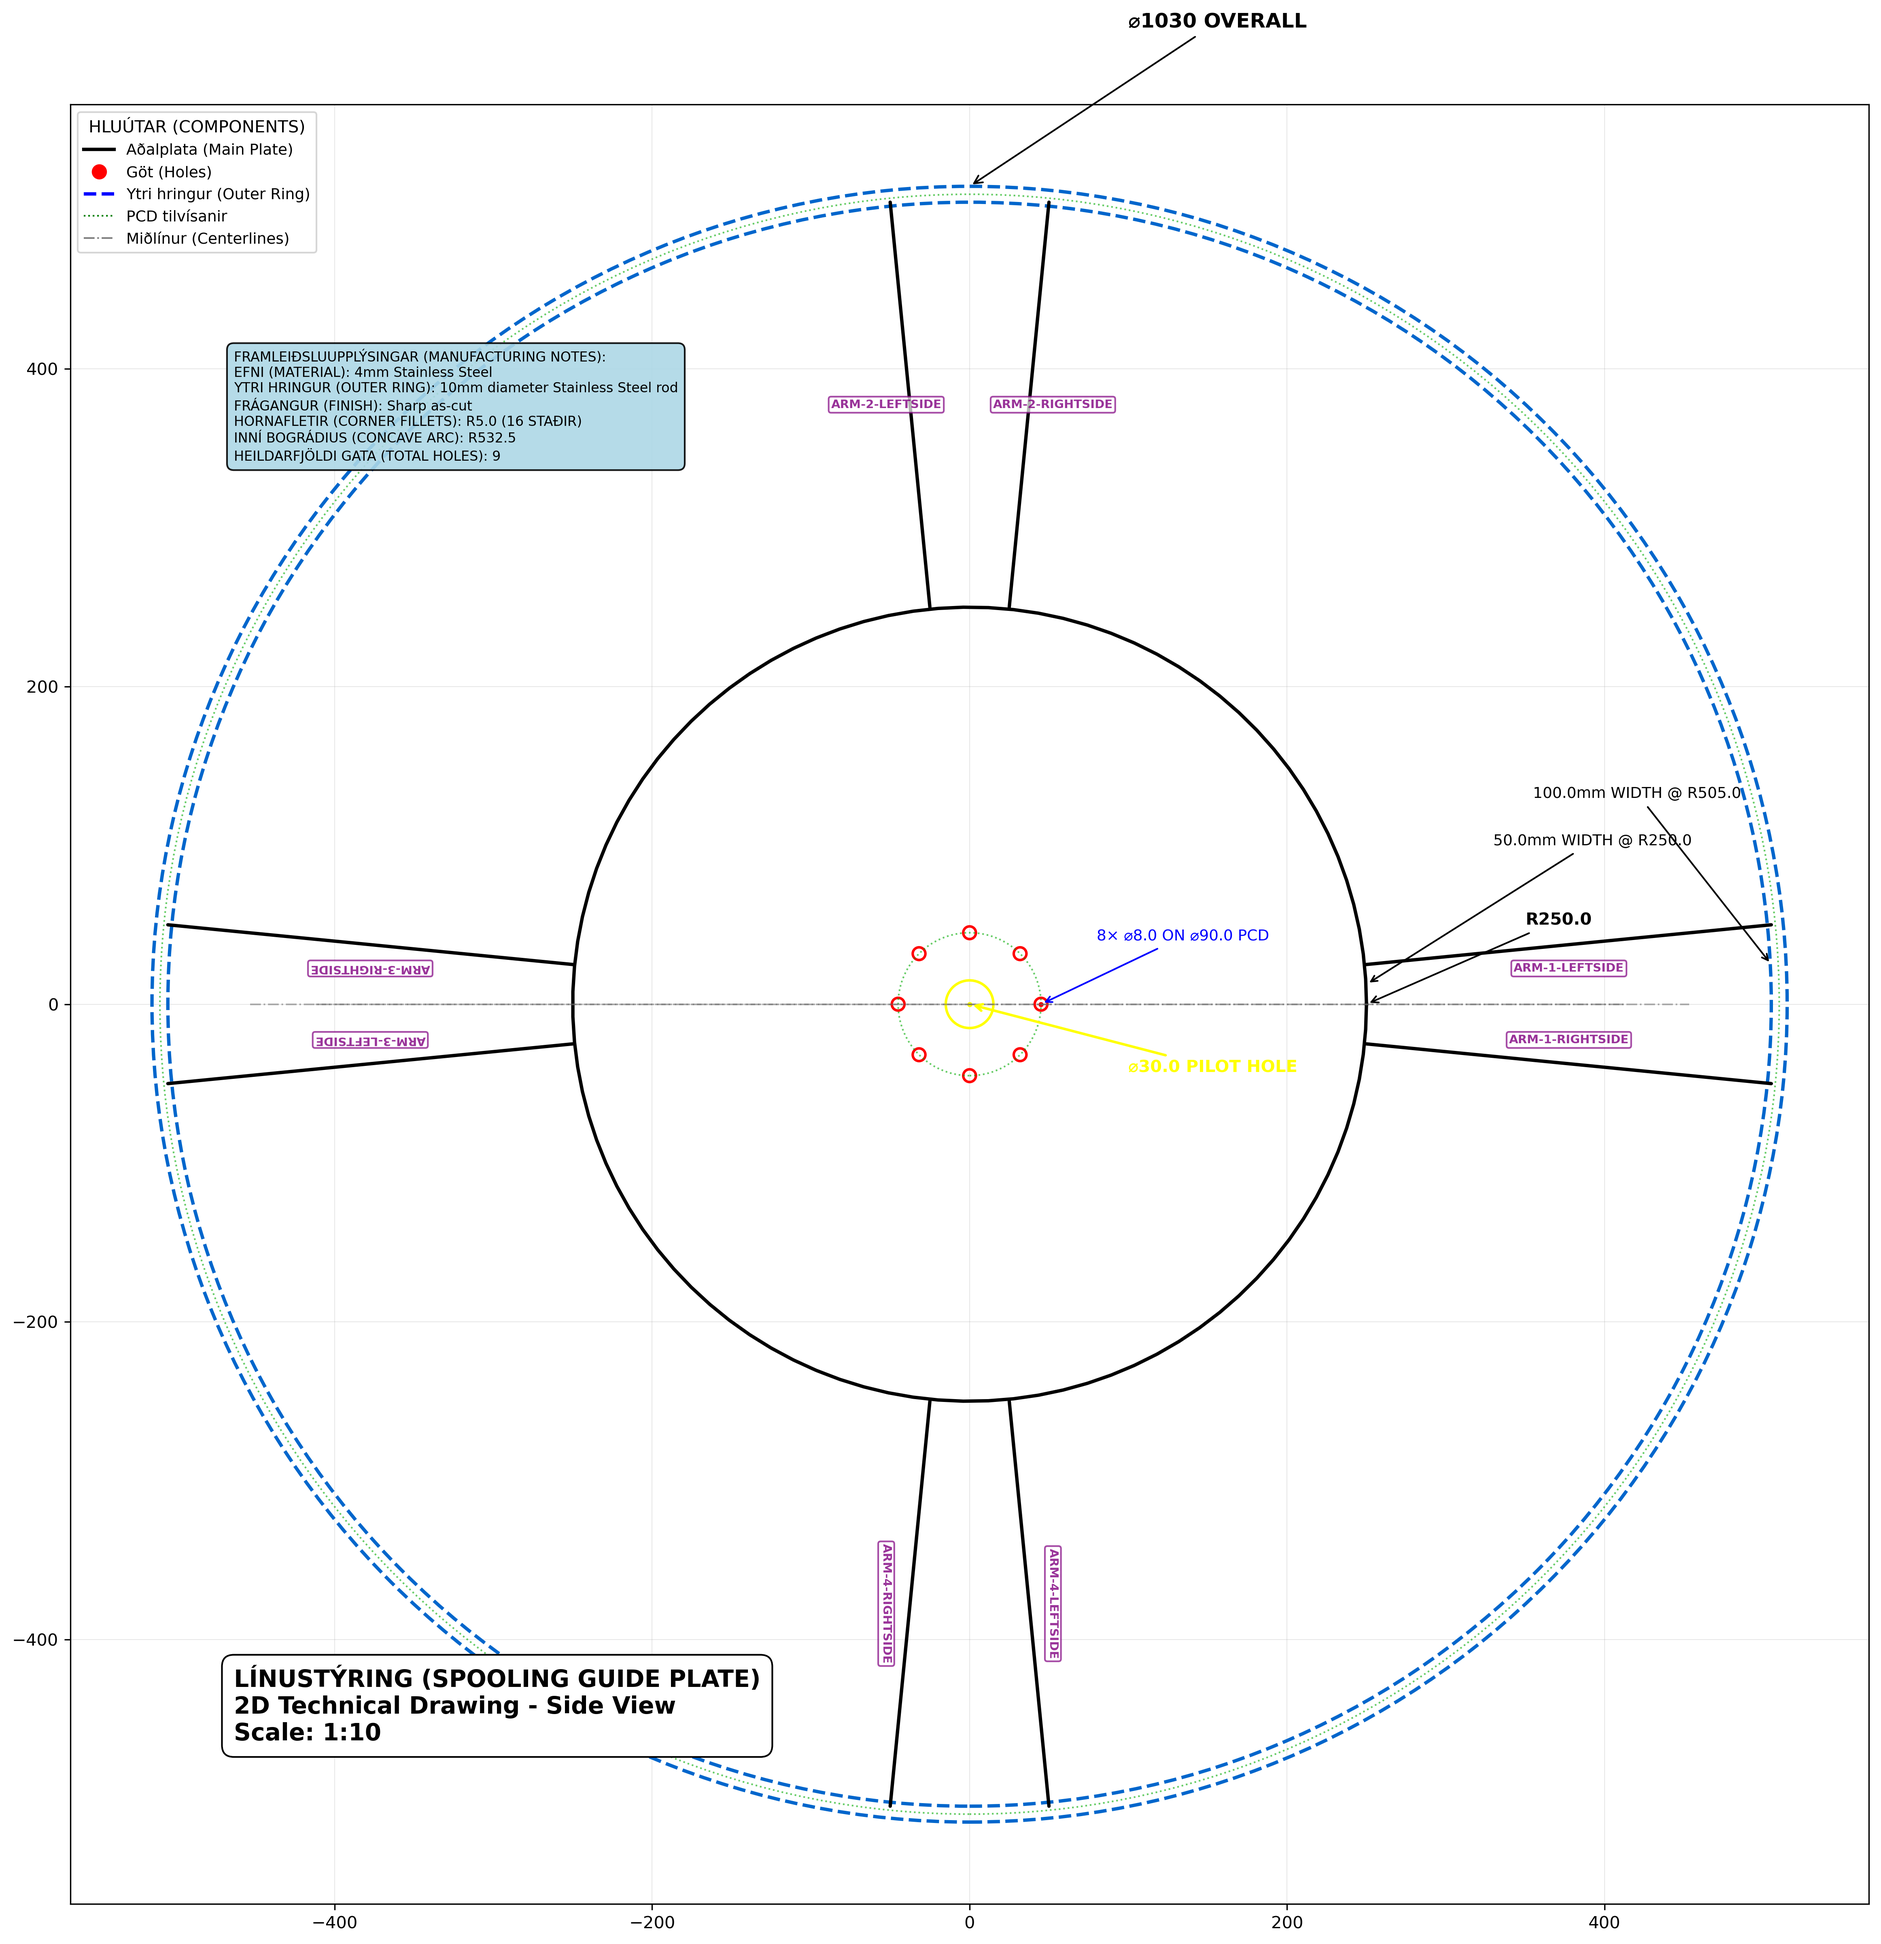
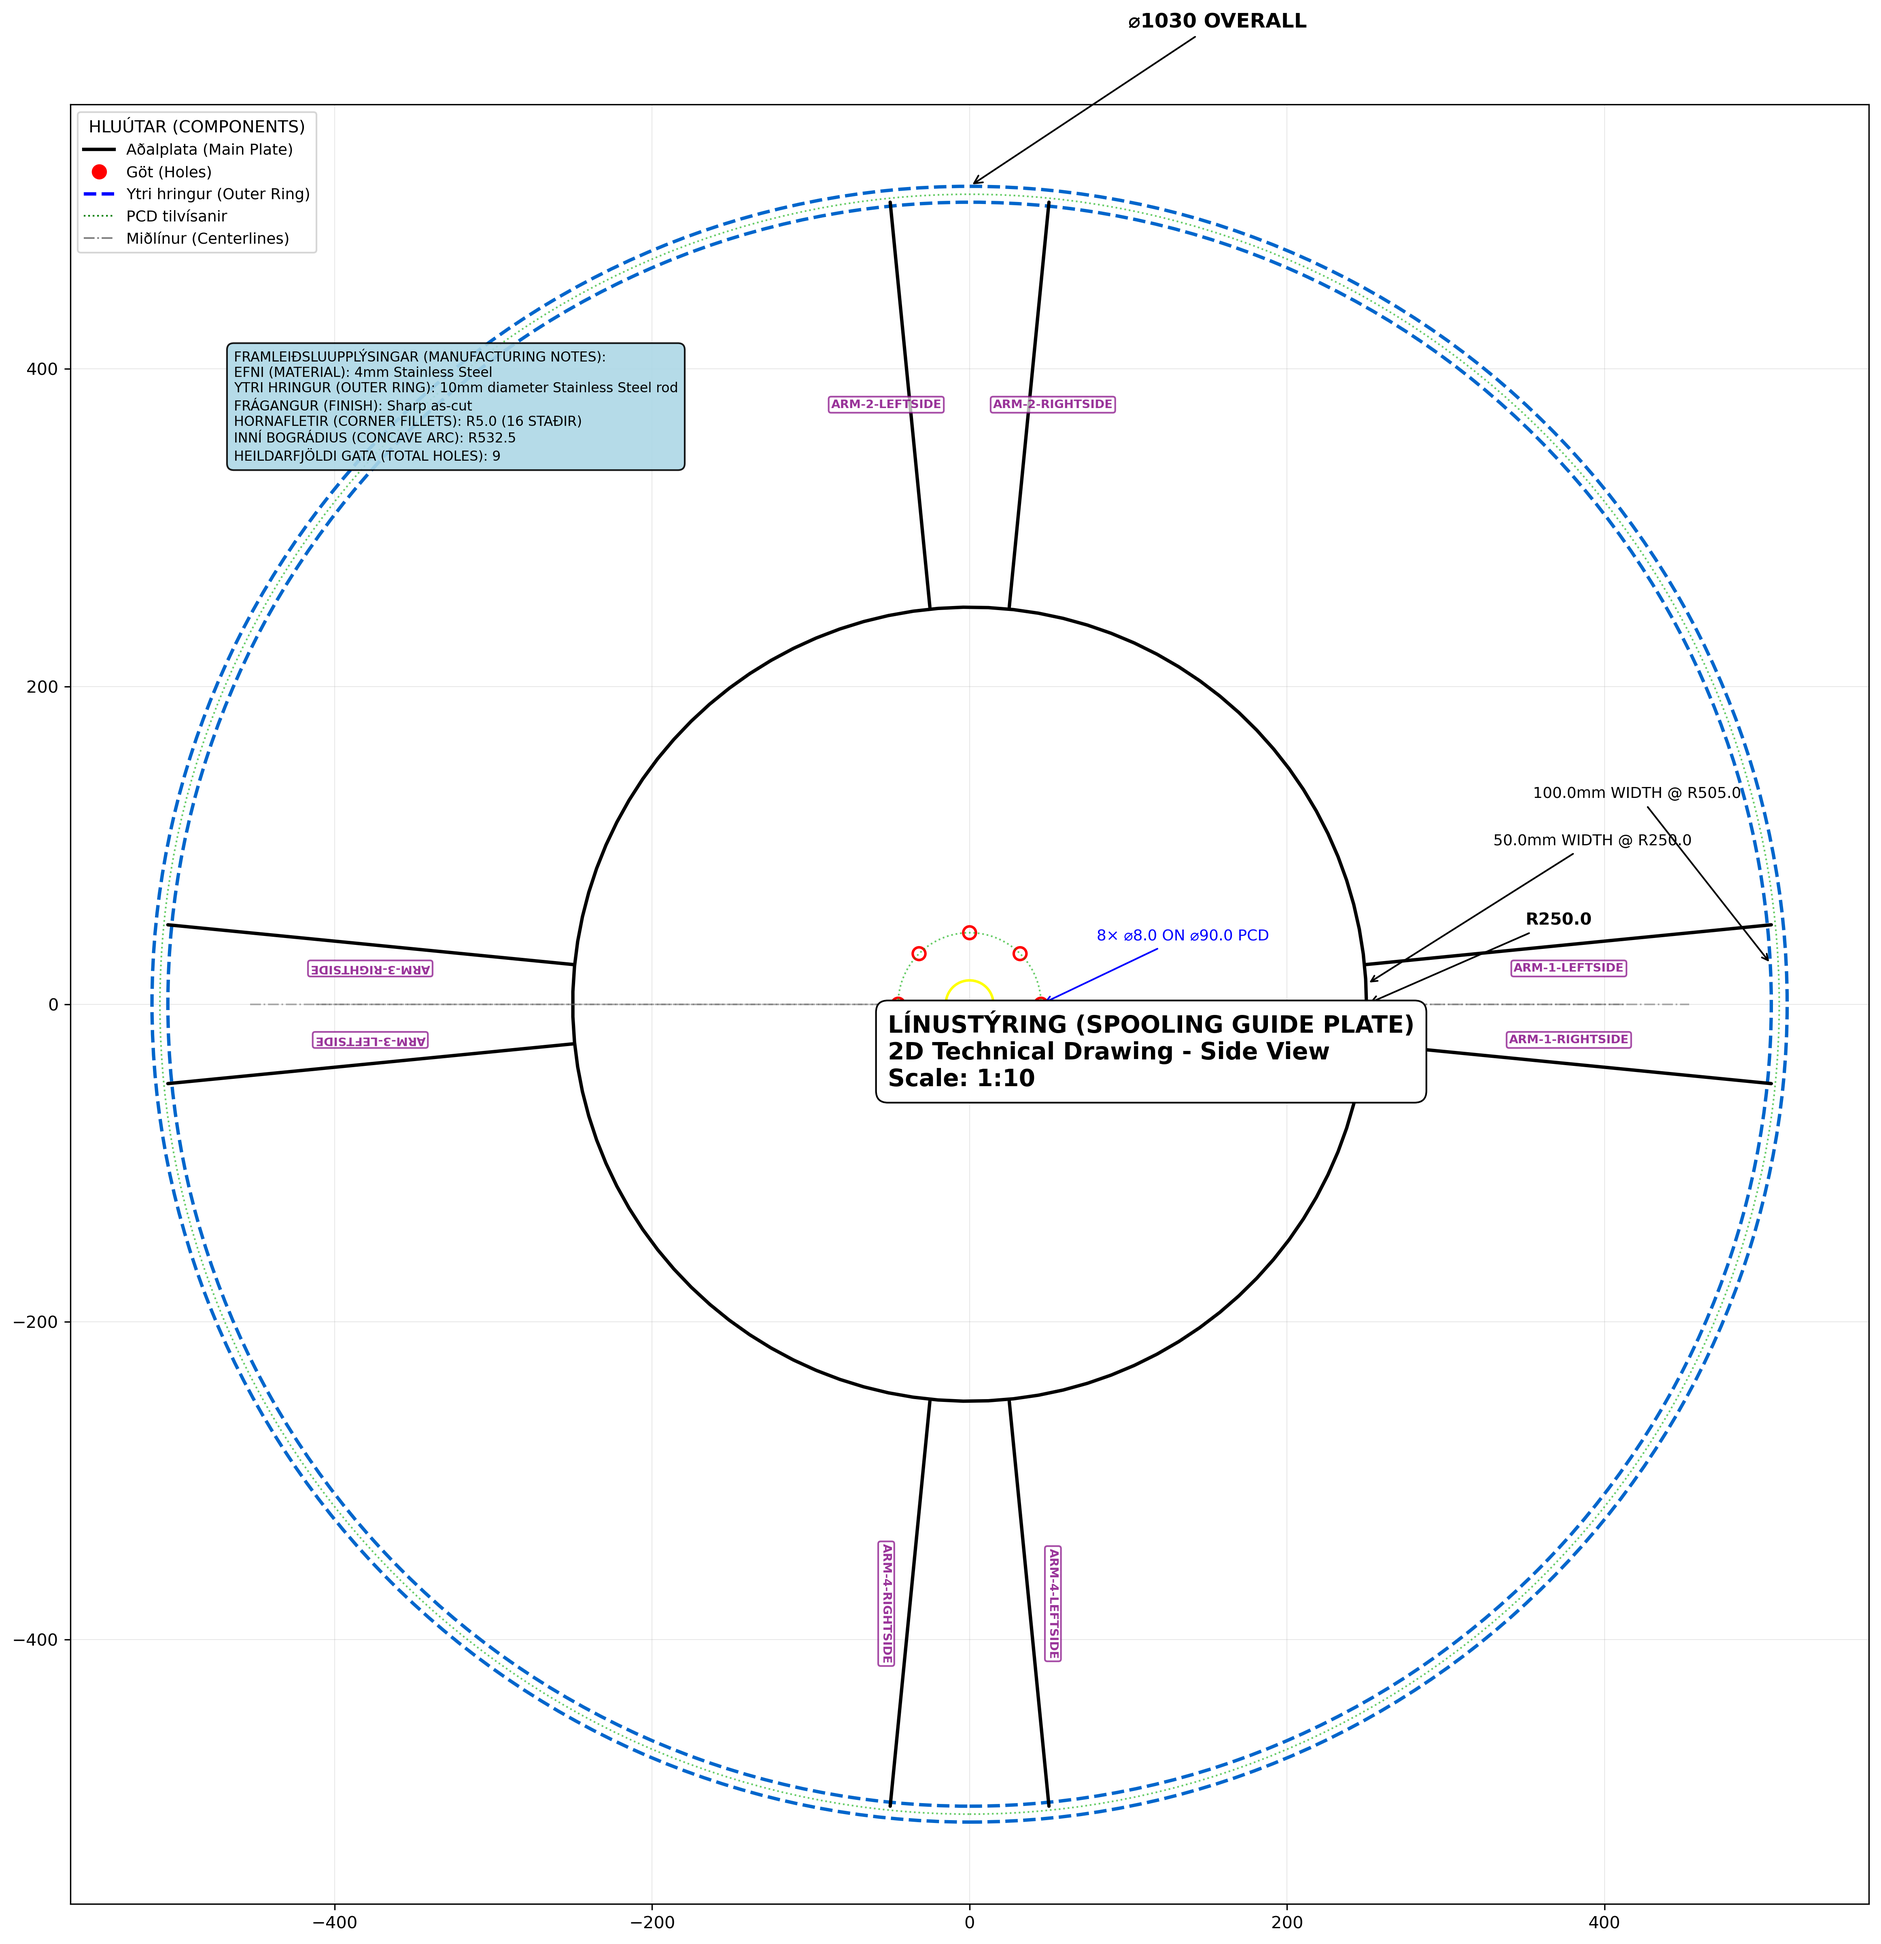
Reposition title block closer to center of drawing
- Modified title_x and title_y from -0.9 to -0.1 multipliers
- Moves title block from far lower-left corner to position closer to center
- Improves title block visibility and reduces distance from main drawing content
- Title block now positioned at approximately 10% radius from center instead of 90%
- Better integration with overall drawing layout

Changed region(s): [[0.4679, 0.4998, 0.7487, 0.5623], [0.1248, 0.8434, 0.4056, 0.9059]]

diff --git a/src/spooling_guide/annotations.py b/src/spooling_guide/annotations.py
@@ -134,8 +134,8 @@ def add_title_block(ax):
         ax: Matplotlib axes object
     """
     overall_dims = geom.calculate_overall_dimensions()
-    title_x = -overall_dims['overall_radius'] * 0.9
-    title_y = -overall_dims['overall_radius'] * 0.9
+    title_x = -overall_dims['overall_radius'] * 0.1
+    title_y = -overall_dims['overall_radius'] * 0.1
     
     ax.text(title_x, title_y, 
             f"{spec.DRAWING_TITLE}\n{spec.DRAWING_VIEW_NAME}\nScale: {spec.DRAWING_SCALE}",
